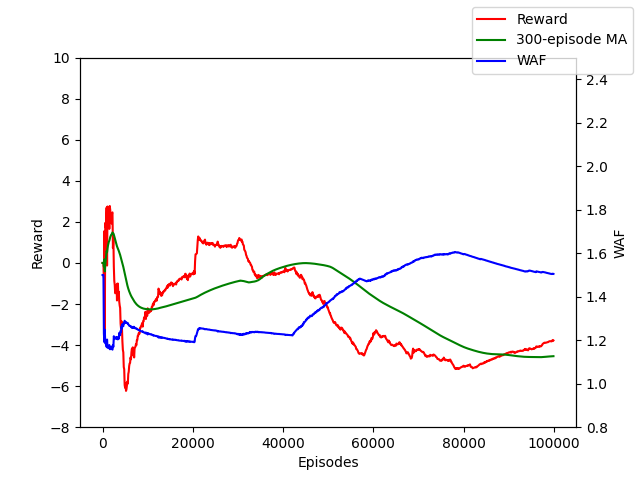
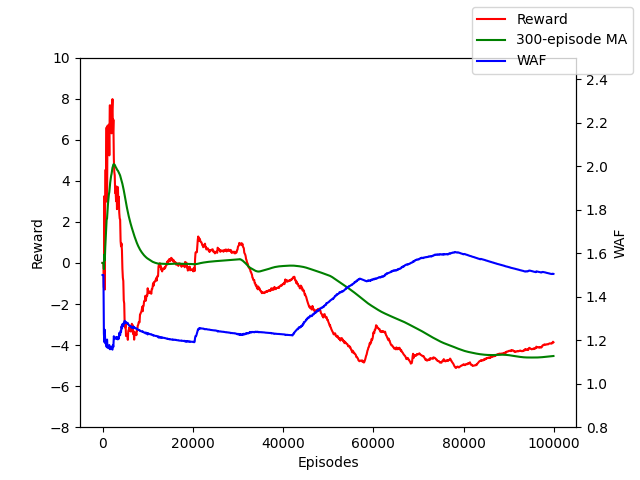
update penalty formula

Changed region(s): [[0.1562, 0.2188, 0.8438, 0.8125], [0.8438, 0.6875, 0.875, 0.7188]]

diff --git a/libs/distribution.py b/libs/distribution.py
@@ -11,6 +11,7 @@ EPSILON_RIGHT = float(os.getenv('EPSILON_RIGHT'))
 EPSILON_MIN = float(os.getenv('EPSILON_MIN'))
 EPSILON_DECAY = float(os.getenv('EPSILON_DECAY'))
 
+PENALTY_BASE = float(os.getenv('PENALTY_BASE'))
 PENALTY_ALPHA = float(os.getenv('PENALTY_ALPHA'))
 
 delta = EPSILON - EPSILON_MIN
@@ -29,4 +30,4 @@ def MultiplyPenalty(reward, penaltyCount):
     # original 
     # return reward * (1 / (1 + PENALTY_ALPHA * penaltyCount))
     # log
-    return reward * (1 / (1 + PENALTY_ALPHA * math.log(1 + penaltyCount)))
+    return reward * (1 / (1 + PENALTY_ALPHA * math.pow(PENALTY_BASE, penaltyCount)))
